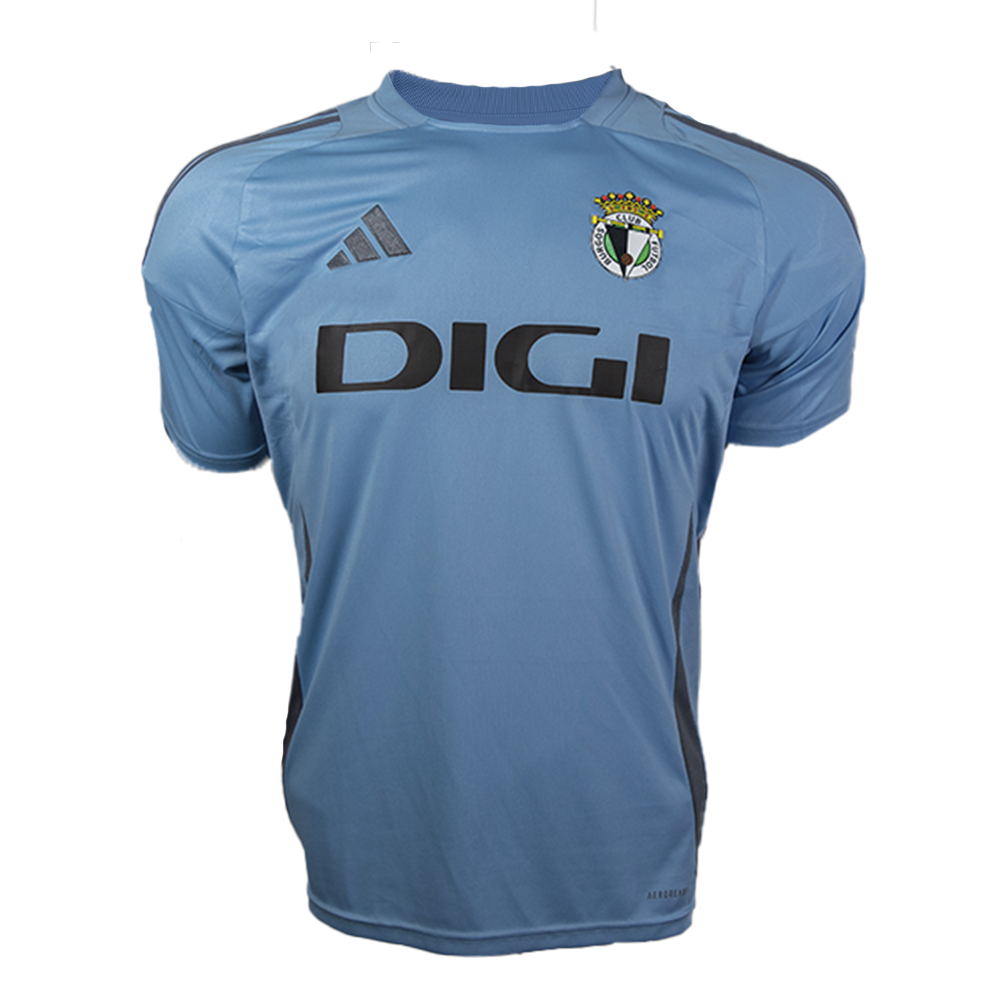
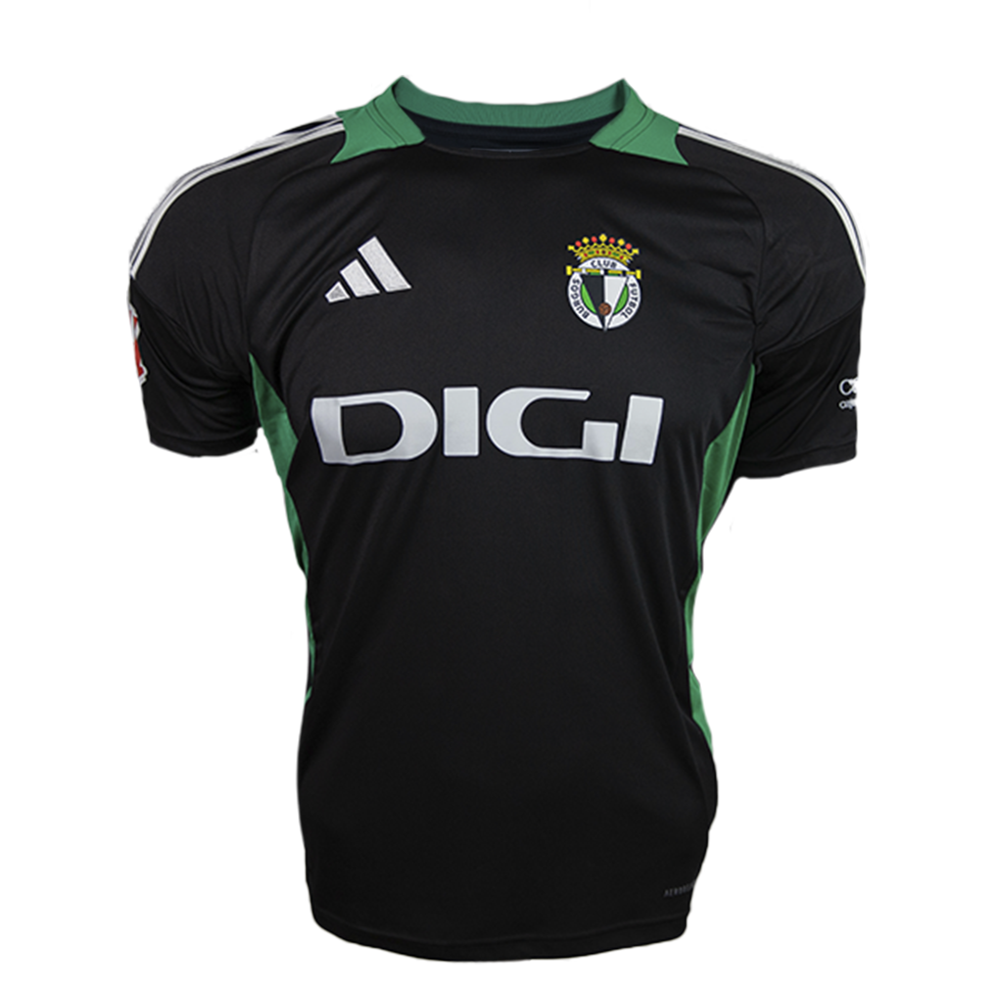
Añadidos más productos por defecto

diff --git a/src/main/java/grupo11/bcf_store/service/SampleDataService.java b/src/main/java/grupo11/bcf_store/service/SampleDataService.java
@@ -31,33 +31,27 @@ public class SampleDataService {
         userRepository.save(new User("m.serranog.2023@alumnos.urjc.es", "hola"));
 
         // Default products
-        productRepository.save(new Product("1ª EQUIPACION BURGOS CF 24/25", 60, "Camiseta oficial de partido.", productService.getImageBlob("/static/images/shirt0.jpg")));
-        productRepository.save(new Product("3º EQUIPACION BURGOS CF 24/25", 60, "Camiseta oficial de partido.", productService.getImageBlob("/static/images/shirt1.jpg")));
-        productRepository.save(new Product("CHUBASQUERO NEGRO 23/24", 60, "Chubasquero del Burgos CF.", productService.getImageBlob("/static/images/chubasquero.jpg")));
-        productRepository.save(new Product("PARKA BURGOS CF 23/24", 60, "Parka con el escudo del equipo.", productService.getImageBlob("/static/images/parka.jpg")));
+        productRepository.save(new Product("1ª EQUIPACION BURGOS CF 24/25", 60, "Camiseta oficial de partido", productService.getImageBlob("/static/images/shirt0.jpg")));
+        productRepository.save(new Product("2ª EQUIPACION BURGOS CF 24/25", 60, "Camiseta oficial de partido", productService.getImageBlob("/static/images/shirt1.jpg")));
+        productRepository.save(new Product("3º EQUIPACION BURGOS CF 24/25", 60, "Camiseta oficial de partido", productService.getImageBlob("/static/images/shirt2.jpg")));
+        productRepository.save(new Product("CAMISETA BCF LOVE", 20, "Regalo perfecto para San Valentín", productService.getImageBlob("/static/images/shirtL.jpg")));
+        productRepository.save(new Product("CAMISETA BCF VIDA", 20, "Demuestra tu afición por el BCF", productService.getImageBlob("/static/images/shirtV.jpg")));
+        productRepository.save(new Product("CHUBASQUERO NEGRO 23/24", 60, "Chubasquero del Burgos CF", productService.getImageBlob("/static/images/chubasquero.jpg")));
+        productRepository.save(new Product("PARKA BURGOS CF 23/24", 60, "Parka con el escudo del equipo", productService.getImageBlob("/static/images/parka.jpg")));
+        productRepository.save(new Product("PANTALON BURGOS CF 22/23", 30, "Pantalón con el escudo del equipo", productService.getImageBlob("/static/images/joggers.jpg")));
         productRepository.save(new Product("BUFANDA BURGOS CF", 20, "Bufanda con el nombre y escudo del equipo", productService.getImageBlob("/static/images/scarf.jpg")));
         productRepository.save(new Product("BALON BLANQUINEGRO", 20, "Disfruta del balón de tu equipo", productService.getImageBlob("/static/images/balon.jpg")));
-        productRepository.save(new Product("BABERO BLANQUINEGRO", 20, "Babero con escudo del equipo", productService.getImageBlob("/static/images/babero.jpg")));
-        productRepository.save(new Product("1ª EQUIPACION BURGOS CF 24/25", 60, "Camiseta oficial de partido.", productService.getImageBlob("/static/images/shirt0.jpg")));
-        productRepository.save(new Product("3º EQUIPACION BURGOS CF 24/25", 60, "Camiseta oficial de partido.", productService.getImageBlob("/static/images/shirt1.jpg")));
-        productRepository.save(new Product("CHUBASQUERO NEGRO 23/24", 60, "Chubasquero del Burgos CF.", productService.getImageBlob("/static/images/chubasquero.jpg")));
-        productRepository.save(new Product("PARKA BURGOS CF 23/24", 60, "Parka con el escudo del equipo.", productService.getImageBlob("/static/images/parka.jpg")));
-        productRepository.save(new Product("BUFANDA BURGOS CF", 20, "Bufanda con el nombre y escudo del equipo", productService.getImageBlob("/static/images/scarf.jpg")));
-        productRepository.save(new Product("BALON BLANQUINEGRO", 20, "Disfruta del balón de tu equipo", productService.getImageBlob("/static/images/balon.jpg")));
-        productRepository.save(new Product("BABERO BLANQUINEGRO", 20, "Babero con escudo del equipo", productService.getImageBlob("/static/images/babero.jpg")));
-        productRepository.save(new Product("1ª EQUIPACION BURGOS CF 24/25", 60, "Camiseta oficial de partido.", productService.getImageBlob("/static/images/shirt0.jpg")));
-        productRepository.save(new Product("3º EQUIPACION BURGOS CF 24/25", 60, "Camiseta oficial de partido.", productService.getImageBlob("/static/images/shirt1.jpg")));
-        productRepository.save(new Product("CHUBASQUERO NEGRO 23/24", 60, "Chubasquero del Burgos CF.", productService.getImageBlob("/static/images/chubasquero.jpg")));
-        productRepository.save(new Product("PARKA BURGOS CF 23/24", 60, "Parka con el escudo del equipo.", productService.getImageBlob("/static/images/parka.jpg")));
-        productRepository.save(new Product("BUFANDA BURGOS CF", 20, "Bufanda con el nombre y escudo del equipo", productService.getImageBlob("/static/images/scarf.jpg")));
-        productRepository.save(new Product("BALON BLANQUINEGRO", 20, "Disfruta del balón de tu equipo", productService.getImageBlob("/static/images/balon.jpg")));
-        productRepository.save(new Product("BABERO BLANQUINEGRO", 20, "Babero con escudo del equipo", productService.getImageBlob("/static/images/babero.jpg")));
-        productRepository.save(new Product("1ª EQUIPACION BURGOS CF 24/25", 60, "Camiseta oficial de partido.", productService.getImageBlob("/static/images/shirt0.jpg")));
-        productRepository.save(new Product("3º EQUIPACION BURGOS CF 24/25", 60, "Camiseta oficial de partido.", productService.getImageBlob("/static/images/shirt1.jpg")));
-        productRepository.save(new Product("CHUBASQUERO NEGRO 23/24", 60, "Chubasquero del Burgos CF.", productService.getImageBlob("/static/images/chubasquero.jpg")));
-        productRepository.save(new Product("PARKA BURGOS CF 23/24", 60, "Parka con el escudo del equipo.", productService.getImageBlob("/static/images/parka.jpg")));
-        productRepository.save(new Product("BUFANDA BURGOS CF", 20, "Bufanda con el nombre y escudo del equipo", productService.getImageBlob("/static/images/scarf.jpg")));
-        productRepository.save(new Product("BALON BLANQUINEGRO", 20, "Disfruta del balón de tu equipo", productService.getImageBlob("/static/images/balon.jpg")));
-        productRepository.save(new Product("BABERO BLANQUINEGRO", 20, "Babero con escudo del equipo", productService.getImageBlob("/static/images/babero.jpg")));
+        productRepository.save(new Product("CALCETINES BCF", 10, "Calcetines oficiales del BCF", productService.getImageBlob("/static/images/socks.jpg")));
+        productRepository.save(new Product("ABRIDOR BCF", 5, "Abridor con imán del club", productService.getImageBlob("/static/images/opener.jpg")));
+        productRepository.save(new Product("BANDERIN BCF", 10, "Banderin para colocar en coche", productService.getImageBlob("/static/images/pennant.jpg")));
+        productRepository.save(new Product("BOLSA BCF", 10, "Bolsa del club", productService.getImageBlob("/static/images/bag.jpg")));
+        productRepository.save(new Product("BOLIGRAFO BCF", 2, "Boligrafo del club", productService.getImageBlob("/static/images/pen.jpg")));
+        productRepository.save(new Product("BRAGA CUELLO BCF", 12, "Braga de cuello del BCF", productService.getImageBlob("/static/images/ngaiter.jpg")));
+        productRepository.save(new Product("GAFAS BCF", 30, "Protege tus ojos con estilo", productService.getImageBlob("/static/images/glasses.jpg")));
+        productRepository.save(new Product("GUANTES LANA BCF", 30, "Abriga tus manos con los guantes blanquinegros", productService.getImageBlob("/static/images/gloves.jpg")));
+        productRepository.save(new Product("LLAVERO DORADO BCF", 5, "Llavero del BCF", productService.getImageBlob("/static/images/keychain.jpg")));
+        productRepository.save(new Product("MOCHILA ADIDAS BCF", 50, "Mochila Adidas del club", productService.getImageBlob("/static/images/backp.jpg")));
+        productRepository.save(new Product("VISERA BCF", 10, "Gorra con el escudo del Burgos", productService.getImageBlob("/static/images/cap.jpg")));
+        productRepository.save(new Product("PELUCHE OSO BCF", 20, "Abraza la calidez y ternura", productService.getImageBlob("/static/images/bear.jpg")));
     }
 }
